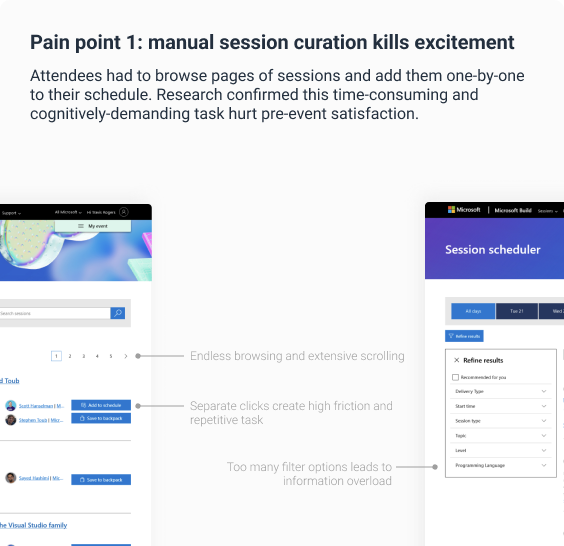
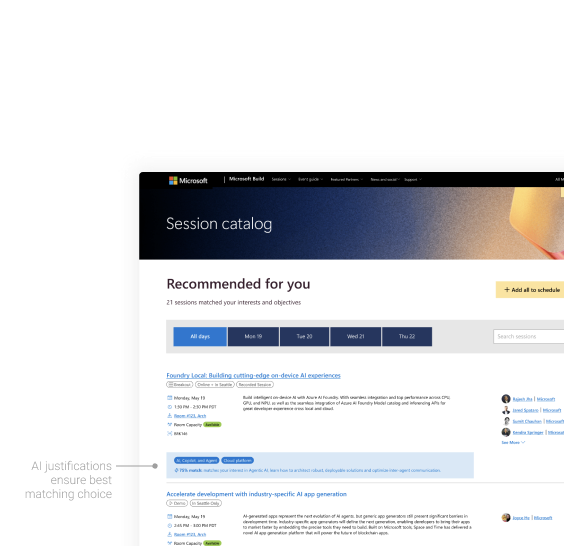
Rebuild MS AI Assistant case study to match Figma pixel-for-pixel
Reconstructs the overview bento grid, problem funnel/sankey chart, and
decision-card image+overlay layout to match the Figma file exactly
(colors, proportions, annotated screenshots), replaces a mismatched
decision2 image asset, and adds responsive fallbacks (stacked bento,
simple stat row instead of the funnel chart) below 900px.

diff --git a/components/work/MicrosoftEventsAIAssistant.tsx b/components/work/MicrosoftEventsAIAssistant.tsx
@@ -10,6 +10,7 @@ import {
 
 const GOLD = '#fb0';
 const INK = '#232f3e';
+const IMG_BASE = '/images/case-studies/ms-ai-assistant';
 
 const heading: React.CSSProperties = {
   fontFamily: 'var(--font-roboto), sans-serif',
@@ -35,22 +36,23 @@ function StatCard({ value, label }: { value: string; label: string }) {
   );
 }
 
-function ComparisonCardView({ card, kind }: { card: ComparisonCard; kind: 'problem' | 'solution' }) {
+function FlowStat({ value, label, style }: { value: string; label: string; style: React.CSSProperties }) {
   return (
-    <div style={{ flex: '1 1 380px', background: '#fbfbfb', border: '1px solid #ccc', borderRadius: 10, overflow: 'hidden', minWidth: 300 }}>
-      <div style={{ padding: 24, display: 'flex', flexDirection: 'column', gap: 10 }}>
-        <span style={{ ...body, fontSize: 13, fontWeight: 700, color: kind === 'solution' ? GOLD : '#b04b3f', textTransform: 'uppercase', letterSpacing: '0.06em' }}>
-          {card.tag}
-        </span>
-        <h4 style={{ ...heading, fontSize: 20 }}>{card.title}</h4>
-        <p style={{ ...body, fontSize: 15 }}>{card.body}</p>
+    <div style={{ position: 'absolute', background: '#fffcf2', border: `1px solid ${GOLD}`, borderRadius: 10, padding: '14px 18px', boxShadow: '4px 4px 5px rgba(209,155,8,0.1)', display: 'flex', gap: 10, alignItems: 'flex-start', ...style }}>
+      <span style={{ ...heading, fontSize: 'clamp(18px, 2.2vw, 32px)', color: GOLD, whiteSpace: 'nowrap' }}>{value}</span>
+      <span style={{ ...body, fontSize: 'clamp(10px, 1.1vw, 16px)', color: '#000', maxWidth: 140 }}>{label}</span>
+    </div>
+  );
+}
+
+function DecisionCardView({ card, kind }: { card: ComparisonCard; kind: 'problem' | 'solution' }) {
+  return (
+    <div style={{ flex: '1 1 400px', minWidth: 280, position: 'relative', background: '#fbfbfb', borderRadius: 10, overflow: 'hidden', aspectRatio: '564 / 546' }}>
+      <Image src={card.image} alt="" fill style={{ objectFit: 'cover' }} sizes="(max-width: 900px) 100vw, 564px" />
+      <div style={{ position: 'absolute', top: 0, left: 0, right: 0, padding: '5.5% 5.3% 0', display: 'flex', flexDirection: 'column', gap: 12 }}>
+        <h4 style={{ ...heading, fontSize: 20 }}>{kind === 'problem' ? card.tag : card.title}</h4>
+        <p style={{ ...body, fontSize: 16 }}>{card.body}</p>
       </div>
-      <div style={{ position: 'relative', aspectRatio: '564 / 235', width: '100%' }}>
-        <Image src={card.image} alt="" fill style={{ objectFit: 'cover' }} sizes="(max-width: 800px) 100vw, 564px" />
-      </div>
-      {card.caption && (
-        <p style={{ ...body, fontSize: 12, color: '#9f9f9f', padding: '10px 24px 18px', fontStyle: 'italic' }}>{card.caption}</p>
-      )}
     </div>
   );
 }
@@ -64,60 +66,75 @@ export default function MicrosoftEventsAIAssistant() {
       <section style={{ maxWidth: 1240, margin: '0 auto', padding: '120px 24px 40px' }}>
         <h1 style={{ ...heading, fontSize: 40, color: GOLD, whiteSpace: 'pre-line', marginBottom: 24 }}>{HERO.title}</h1>
         <div style={{ position: 'relative', width: '100%', aspectRatio: '1377 / 622', borderRadius: 24, overflow: 'hidden' }}>
-          <Image src="/images/case-studies/ms-ai-assistant/hero-collage.png" alt="Microsoft Events AI Assistant collage" fill style={{ objectFit: 'cover' }} sizes="100vw" priority />
+          <Image src={`${IMG_BASE}/hero-collage.png`} alt="Microsoft Events AI Assistant collage" fill style={{ objectFit: 'cover' }} sizes="100vw" priority />
         </div>
         <p style={{ ...body, fontSize: 16, textAlign: 'center', maxWidth: 615, margin: '32px auto 0' }}>
           <strong>Disclaimer</strong>
           <br />
-          <span style={{ fontWeight: 200 }}>{HERO.disclaimer}</span>
+          <span style={{ fontWeight: 300 }}>{HERO.disclaimer}</span>
         </p>
       </section>
 
-      {/* Overview */}
+      {/* Overview bento */}
       <section style={{ maxWidth: 1240, margin: '40px auto 0', padding: '0 24px' }}>
-        <div className="ms-overview-grid" style={{ display: 'grid', gridTemplateColumns: '1fr 1.5fr 1fr', gap: 16 }}>
-          <div style={{ display: 'flex', flexDirection: 'column', gap: 16 }}>
-            <div style={{ background: 'linear-gradient(180deg, #8dd8f5 0%, #d4f26e 100%)', borderRadius: 20, padding: 24, flex: 1, display: 'flex', flexDirection: 'column', gap: 8 }}>
-              <span style={{ ...body, fontWeight: 200, fontSize: 20, color: INK }}>Challenge</span>
-              <span style={{ ...body, fontWeight: 500, fontSize: 24, color: INK }}>{OVERVIEW.challenge}</span>
+        <div className="ms-bento" style={{ display: 'flex', gap: 16, alignItems: 'flex-start' }}>
+          {/* Left: Challenge + Solution */}
+          <div style={{ flex: '321 1 0', minWidth: 0, display: 'flex', flexDirection: 'column', justifyContent: 'space-between', gap: 24, background: 'linear-gradient(180deg, #88d8fa 0%, #d2f066 100%)', borderRadius: 10, padding: 24, color: '#fff' }}>
+            <div style={{ display: 'flex', flexDirection: 'column', gap: 8 }}>
+              <span style={{ ...body, fontWeight: 300, fontSize: 20, color: '#fff' }}>Challenge</span>
+              <span style={{ ...body, fontWeight: 500, fontSize: 24, color: '#fff' }}>{OVERVIEW.challenge}</span>
             </div>
-            <div style={{ background: '#c1f5d0', borderRadius: 20, padding: 24, display: 'flex', flexDirection: 'column', gap: 8 }}>
-              <span style={{ ...body, fontWeight: 200, fontSize: 20, color: INK }}>Solution</span>
-              <span style={{ ...body, fontWeight: 500, fontSize: 24, color: INK }}>{OVERVIEW.solution}</span>
+            <div style={{ display: 'flex', flexDirection: 'column', gap: 8 }}>
+              <span style={{ ...body, fontWeight: 300, fontSize: 20, color: '#fff' }}>Solution</span>
+              <span style={{ ...body, fontWeight: 500, fontSize: 24, color: '#fff' }}>{OVERVIEW.solution}</span>
             </div>
           </div>
 
-          <div style={{ display: 'flex', flexDirection: 'column', gap: 16 }}>
-            <div style={{ background: '#eafce0', borderRadius: 20, padding: 24 }}>
-              <span style={{ ...body, fontWeight: 200, fontSize: 20, color: '#219b24', display: 'block' }}>Role</span>
+          {/* Middle: Role / Deliverable / Team */}
+          <div style={{ flex: '476 1 0', minWidth: 0, display: 'flex', flexDirection: 'column', gap: 16 }}>
+            <div style={{ background: '#b9fac9', borderRadius: 10, padding: 24 }}>
+              <span style={{ ...body, fontWeight: 300, fontSize: 20, color: '#219b24', display: 'block', marginBottom: 8 }}>Role</span>
               <span style={{ ...body, fontWeight: 500, fontSize: 20, color: '#219b24' }}>{OVERVIEW.role}</span>
             </div>
-            <div style={{ background: '#8dd8f5', borderRadius: 20, padding: 24 }}>
-              <span style={{ ...body, fontWeight: 200, fontSize: 20, color: INK, display: 'block', marginBottom: 8 }}>Deliverable</span>
-              <ul style={{ ...body, fontWeight: 500, fontSize: 16, color: INK, margin: 0, paddingLeft: 20 }}>
+            <div style={{ background: '#88d8fa', borderRadius: 10, padding: 24 }}>
+              <span style={{ ...body, fontWeight: 300, fontSize: 20, color: '#fff', display: 'block', marginBottom: 8 }}>Deliverable</span>
+              <ul style={{ ...body, fontWeight: 500, fontSize: 16, color: '#fff', margin: 0, paddingLeft: 20 }}>
                 {OVERVIEW.deliverables.map((d) => <li key={d}>{d}</li>)}
               </ul>
             </div>
-            <div style={{ background: '#fdfd8f', borderRadius: 20, padding: 24 }}>
-              <span style={{ ...body, fontWeight: 200, fontSize: 20, color: INK, display: 'block', marginBottom: 8 }}>Team</span>
-              <ul style={{ ...body, fontWeight: 500, fontSize: 16, color: INK, margin: 0, paddingLeft: 20 }}>
+            <div style={{ background: '#89ea8b', borderRadius: 10, padding: 24 }}>
+              <span style={{ ...body, fontWeight: 300, fontSize: 20, color: '#fff', display: 'block', marginBottom: 8 }}>Team</span>
+              <ul style={{ ...body, fontWeight: 500, fontSize: 16, color: '#fff', margin: 0, paddingLeft: 20 }}>
                 {OVERVIEW.team.map((t) => <li key={t}>{t}</li>)}
               </ul>
             </div>
           </div>
 
-          <div style={{ display: 'flex', flexDirection: 'column', gap: 16 }}>
-            <div style={{ background: '#e6fced', borderRadius: 20, padding: 24, flex: 1 }}>
-              <div style={{ ...heading, fontSize: 40, fontWeight: 600, color: INK }}>{OVERVIEW.quickStats[0].value}</div>
-              <div style={{ ...body, fontSize: 20, fontWeight: 500, color: INK }}>{OVERVIEW.quickStats[0].label}</div>
+          {/* Right: compound quick-stats */}
+          <div style={{ flex: '327 1 0', minWidth: 0, display: 'flex', flexDirection: 'column', gap: 15 }}>
+            <div style={{ position: 'relative', borderRadius: 10, overflow: 'hidden', background: '#ffff8c', aspectRatio: '327 / 343' }}>
+              <div style={{ position: 'absolute', top: 0, left: 0, right: 0, height: '44.02%', background: '#d7d72d', padding: '6.7% 7.3% 0', boxSizing: 'border-box' }}>
+                <div style={{ ...heading, fontSize: 'clamp(24px, 3vw, 40px)', fontWeight: 700, color: '#fff' }}>{OVERVIEW.quickStats[0].value}</div>
+                <div style={{ ...body, fontSize: 'clamp(14px, 1.5vw, 20px)', fontWeight: 500, color: '#fff' }}>{OVERVIEW.quickStats[0].label}</div>
+              </div>
+              <div style={{ position: 'absolute', top: '44.02%', left: 0, right: 0, height: '31.78%', background: '#ecec54', padding: '6% 7.3% 0', boxSizing: 'border-box' }}>
+                <div style={{ ...heading, fontSize: 'clamp(20px, 2.4vw, 32px)', fontWeight: 700, color: '#a3b409' }}>{OVERVIEW.quickStats[2].value}</div>
+                <div style={{ ...body, fontSize: 'clamp(14px, 1.5vw, 20px)', fontWeight: 500, color: '#a3b409' }}>{OVERVIEW.quickStats[2].label}</div>
+              </div>
+              <div style={{ position: 'absolute', bottom: 0, left: 0, right: 0, height: '23.96%', padding: '7% 7.3% 0', boxSizing: 'border-box' }}>
+                <div style={{ ...heading, fontSize: 'clamp(20px, 2.4vw, 32px)', fontWeight: 700, color: '#cadf08' }}>{OVERVIEW.quickStats[1].value}</div>
+                <div style={{ ...body, fontSize: 'clamp(14px, 1.5vw, 20px)', fontWeight: 500, color: '#cadf08' }}>{OVERVIEW.quickStats[1].label}</div>
+              </div>
             </div>
-            <div style={{ background: INK, borderRadius: 20, padding: 20, display: 'flex', flexDirection: 'column', gap: 14 }}>
-              {OVERVIEW.quickStats.slice(1).map((s, i) => (
-                <div key={s.label}>
-                  <div style={{ ...heading, fontSize: 26, fontWeight: 600, color: i === 0 ? '#cadf08' : i === 1 ? '#a3b409' : '#fff' }}>{s.value}</div>
-                  <div style={{ ...body, fontSize: 15, fontWeight: 500, color: '#fff' }}>{s.label}</div>
-                </div>
-              ))}
+            <div style={{ position: 'relative', borderRadius: 10, overflow: 'hidden', background: '#eaffef', aspectRatio: '327 / 235', flex: 1 }}>
+              <div style={{ position: 'absolute', bottom: 0, left: '3.98%', width: '62.08%', height: '31.1%', background: '#61d0ff', borderRadius: '4px 4px 0 0', padding: '6% 0 0 5.4%', boxSizing: 'border-box' }}>
+                <div style={{ ...heading, fontSize: 'clamp(18px, 2vw, 32px)', fontWeight: 700, color: '#fff' }}>{OVERVIEW.quickStats[3].value}</div>
+                <div style={{ ...body, fontSize: 'clamp(12px, 1.3vw, 20px)', fontWeight: 500, color: '#fff' }}>{OVERVIEW.quickStats[3].label}</div>
+              </div>
+              <div style={{ position: 'absolute', bottom: 0, left: '50.46%', width: '49.54%', height: '88.09%', background: '#58a8f8', borderRadius: '4px 0 10px 0', padding: '4.3% 0 0 8.6%', boxSizing: 'border-box' }}>
+                <div style={{ ...heading, fontSize: 'clamp(18px, 2vw, 32px)', fontWeight: 700, color: '#fff' }}>{OVERVIEW.quickStats[4].value}</div>
+                <div style={{ ...body, fontSize: 'clamp(12px, 1.3vw, 20px)', fontWeight: 500, color: '#fff' }}>{OVERVIEW.quickStats[4].label}</div>
+              </div>
             </div>
           </div>
         </div>
@@ -125,9 +142,53 @@ export default function MicrosoftEventsAIAssistant() {
 
       {/* Problem */}
       <section style={{ maxWidth: 1240, margin: '96px auto 0', padding: '0 24px', textAlign: 'center' }}>
-        <h2 style={{ ...heading, fontSize: 'clamp(28px, 4vw, 40px)', maxWidth: 900, margin: '0 auto' }}>{PROBLEM.title}</h2>
-        <p style={{ ...body, fontSize: 20, maxWidth: 1000, margin: '24px auto 0' }}>{PROBLEM.body}</p>
-        <div style={{ display: 'flex', flexWrap: 'wrap', justifyContent: 'center', gap: 20, marginTop: 48 }}>
+        <h2 style={{ ...heading, fontSize: 'clamp(28px, 4vw, 40px)', maxWidth: 960, margin: '0 auto' }}>{PROBLEM.title}</h2>
+        <p style={{ ...body, fontSize: 20, maxWidth: 1172, margin: '24px auto 0' }}>{PROBLEM.body}</p>
+      </section>
+
+      {/* Problem funnel chart (desktop) */}
+      <section className="ms-problem-chart" style={{ maxWidth: 1440, margin: '48px auto 0', padding: '0 24px' }}>
+        <div style={{ position: 'relative', width: '100%', aspectRatio: '1440 / 582.9371' }}>
+          <div style={{ position: 'absolute', left: '-24.51%', top: '0%', width: '41.6%', height: '99.35%' }}>
+            <Image src={`${IMG_BASE}/problem-flow-bg.svg`} alt="" fill style={{ objectFit: 'fill' }} />
+          </div>
+          <div style={{ position: 'absolute', left: '17.19%', top: '19.56%', width: '23.3%', height: '31.31%' }}>
+            <Image src={`${IMG_BASE}/problem-flow-2.svg`} alt="" fill style={{ objectFit: 'fill' }} />
+          </div>
+          <div style={{ position: 'absolute', left: '17.26%', top: '38.77%', width: '23.23%', height: '28.48%' }}>
+            <Image src={`${IMG_BASE}/problem-flow-4.svg`} alt="" fill style={{ objectFit: 'fill' }} />
+          </div>
+          <div style={{ position: 'absolute', left: '17.36%', top: '57.98%', width: '23.13%', height: '42.02%' }}>
+            <Image src={`${IMG_BASE}/problem-flow-1.svg`} alt="" fill style={{ objectFit: 'fill' }} />
+          </div>
+          <div style={{ position: 'absolute', left: '39.69%', top: '28.65%', width: '22.47%', height: '34.31%' }}>
+            <Image src={`${IMG_BASE}/problem-flow-3.svg`} alt="" fill style={{ objectFit: 'fill' }} />
+          </div>
+          <div style={{ position: 'absolute', left: '63.61%', top: '28.22%', width: '16.77%', height: '4.03%' }}>
+            <Image src={`${IMG_BASE}/problem-flow-line-1.svg`} alt="" fill style={{ objectFit: 'fill' }} />
+          </div>
+          <div style={{ position: 'absolute', left: '63.61%', top: '32.34%', width: '16.88%', height: '1.97%' }}>
+            <Image src={`${IMG_BASE}/problem-flow-line-2.svg`} alt="" fill style={{ objectFit: 'fill' }} />
+          </div>
+
+          <div style={{ position: 'absolute', left: '15.35%', top: '30.88%', width: '2.22%', height: '68.63%', background: '#fff1cc', borderRadius: 6 }} />
+          <div style={{ position: 'absolute', left: '61.39%', top: '21.96%', width: '2.22%', height: '5.32%', background: '#eee', borderRadius: 6 }} />
+          <div style={{ position: 'absolute', left: '61.39%', top: '28.65%', width: '2.22%', height: '34.31%', background: '#fff1cc', borderRadius: 6 }} />
+          <div style={{ position: 'absolute', left: '80.07%', top: '28.14%', width: '2.22%', height: '3.43%', background: '#fff1cc', borderRadius: 6 }} />
+          <div style={{ position: 'absolute', left: '80.07%', top: '32.25%', width: '2.22%', height: '2.06%', background: '#fff1cc', borderRadius: 6 }} />
+          <div style={{ position: 'absolute', left: '80.07%', top: '35%', width: '2.22%', height: '29.34%', background: '#eee', borderRadius: 6 }} />
+
+          <FlowStat value="255k" label="# of registered attendees" style={{ left: '16.46%', top: '73.07%' }} />
+          <FlowStat value="50k" label="# of chatbot users" style={{ left: '39.38%', top: '51.47%' }} />
+          <FlowStat value="81k" label="# of questions answered" style={{ left: '62.5%', top: '45.82%' }} />
+          <FlowStat value="2.6k" label="Answers liked" style={{ left: '81.6%', top: '16.81%' }} />
+          <FlowStat value="1.4k" label="Answers disliked" style={{ left: '81.6%', top: '32.77%' }} />
+        </div>
+      </section>
+
+      {/* Problem stats (mobile fallback) */}
+      <section className="ms-problem-simple" style={{ maxWidth: 1240, margin: '48px auto 0', padding: '0 24px' }}>
+        <div style={{ display: 'flex', flexWrap: 'wrap', justifyContent: 'center', gap: 20 }}>
           {PROBLEM.stats.map((s) => <StatCard key={s.label} value={s.value} label={s.label} />)}
         </div>
       </section>
@@ -176,8 +237,8 @@ export default function MicrosoftEventsAIAssistant() {
           </div>
           {decision.pairs.map((pair, i) => (
             <div key={i} style={{ display: 'flex', flexWrap: 'wrap', gap: 20, marginBottom: 24, border: '1px solid #ccc', borderRadius: 10, padding: 20 }}>
-              <ComparisonCardView card={pair.problem} kind="problem" />
-              <ComparisonCardView card={pair.solution} kind="solution" />
+              <DecisionCardView card={pair.problem} kind="problem" />
+              <DecisionCardView card={pair.solution} kind="solution" />
             </div>
           ))}
         </section>
@@ -192,11 +253,11 @@ export default function MicrosoftEventsAIAssistant() {
       {/* Usability stats */}
       <section style={{ maxWidth: 1240, margin: '64px auto 0', padding: '0 24px' }}>
         <h3 style={{ ...heading, fontSize: 20 }}>{USABILITY_STATS.kicker}</h3>
-        <div style={{ display: 'flex', flexWrap: 'wrap', gap: 17, marginTop: 24 }}>
+        <div className="ms-stats-row" style={{ display: 'flex', flexWrap: 'wrap', gap: 17, marginTop: 24 }}>
           {USABILITY_STATS.stats.map((s) => (
-            <div key={s.label} style={{ background: '#fffcf2', border: `1px solid ${GOLD}`, borderRadius: 10, padding: 20, width: 240, minHeight: 240, display: 'flex', flexDirection: 'column', alignItems: 'center', justifyContent: 'center', textAlign: 'center', gap: 8 }}>
+            <div key={s.label} style={{ background: '#fffcf2', border: `1px solid ${GOLD}`, borderRadius: 10, padding: 20, width: 280, height: 280, display: 'flex', flexDirection: 'column', alignItems: 'center', justifyContent: 'center', textAlign: 'center', gap: 8 }}>
               <span style={{ ...heading, fontSize: 60 }}>{s.value}</span>
-              <span style={{ ...body, fontSize: 15 }}>{s.label}</span>
+              <span style={{ ...body, fontSize: 20 }}>{s.label}</span>
             </div>
           ))}
         </div>
@@ -204,31 +265,20 @@ export default function MicrosoftEventsAIAssistant() {
 
       {/* Impact stats */}
       <section style={{ maxWidth: 1240, margin: '64px auto 0', padding: '0 24px 96px' }}>
-        <div className="ms-impact-grid" style={{ display: 'grid', gridTemplateColumns: '1fr 1fr', gap: 24 }}>
-          <div>
-            <h4 style={{ ...heading, fontSize: 20, marginBottom: 16 }}>For attendees:</h4>
-            <div style={{ display: 'flex', flexWrap: 'wrap', gap: 16 }}>
-              {IMPACT_STATS.attendees.map((s) => (
-                <div key={s.label} style={{ background: GOLD, borderRadius: 10, padding: 20, flex: '1 1 200px', minWidth: 180, color: '#fff', textAlign: 'center' }}>
-                  <div style={{ ...heading, fontSize: 44, color: '#fff' }}>{s.value}</div>
-                  <div style={{ ...body, fontSize: 18, fontWeight: 700, color: '#fff' }}>{s.label}</div>
-                  <div style={{ ...body, fontSize: 14, color: '#fff3d6', marginTop: 8 }}>{s.caption}</div>
-                </div>
-              ))}
+        <div className="ms-impact-headers" style={{ display: 'flex', gap: 17, marginBottom: 8 }}>
+          <h4 style={{ ...heading, fontSize: 20, flex: '1 1 577px' }}>For attendees:</h4>
+          <h4 style={{ ...heading, fontSize: 20, flex: '1 1 577px' }}>For business:</h4>
+        </div>
+        <div className="ms-stats-row" style={{ display: 'flex', flexWrap: 'wrap', gap: 17 }}>
+          {[...IMPACT_STATS.attendees, ...IMPACT_STATS.business].map((s) => (
+            <div key={s.label} style={{ background: GOLD, borderRadius: 10, padding: 20, width: 280, height: 280, display: 'flex', flexDirection: 'column', alignItems: 'center', justifyContent: 'center', textAlign: 'center', gap: 16 }}>
+              <div>
+                <div style={{ ...heading, fontSize: 60, color: '#fff' }}>{s.value}</div>
+                <div style={{ ...body, fontSize: 20, fontWeight: 700, color: '#fff' }}>{s.label}</div>
+              </div>
+              <div style={{ ...body, fontSize: 16, color: '#fff3d6' }}>{s.caption}</div>
             </div>
-          </div>
-          <div>
-            <h4 style={{ ...heading, fontSize: 20, marginBottom: 16 }}>For business:</h4>
-            <div style={{ display: 'flex', flexWrap: 'wrap', gap: 16 }}>
-              {IMPACT_STATS.business.map((s) => (
-                <div key={s.label} style={{ background: GOLD, borderRadius: 10, padding: 20, flex: '1 1 200px', minWidth: 180, color: '#fff', textAlign: 'center' }}>
-                  <div style={{ ...heading, fontSize: 44, color: '#fff' }}>{s.value}</div>
-                  <div style={{ ...body, fontSize: 18, fontWeight: 700, color: '#fff' }}>{s.label}</div>
-                  <div style={{ ...body, fontSize: 14, color: '#fff3d6', marginTop: 8 }}>{s.caption}</div>
-                </div>
-              ))}
-            </div>
-          </div>
+          ))}
         </div>
       </section>
 
@@ -236,8 +286,13 @@ export default function MicrosoftEventsAIAssistant() {
 
       <style jsx>{`
         @media (max-width: 900px) {
-          .ms-overview-grid { grid-template-columns: 1fr !important; }
-          .ms-impact-grid { grid-template-columns: 1fr !important; }
+          .ms-bento { flex-direction: column; }
+          .ms-problem-chart { display: none; }
+          .ms-impact-headers { flex-direction: column; gap: 0; }
+          .ms-stats-row { justify-content: center; }
+        }
+        @media (min-width: 901px) {
+          .ms-problem-simple { display: none; }
         }
       `}</style>
     </div>

diff --git a/lib/caseStudies/msAiAssistant.ts b/lib/caseStudies/msAiAssistant.ts
@@ -70,7 +70,6 @@ export interface ComparisonCard {
   title: string;
   body: string;
   image: string;
-  caption?: string;
 }
 
 export interface Decision {
@@ -90,14 +89,12 @@ export const DECISIONS: Decision[] = [
           title: 'The AI Assistant’s main entry point is easy to miss',
           body: 'The AI Assistant’s main entry point “Customize your schedule” has low adoption. Only 19% of attendees used it, and over half said they didn’t even know it existed. Heat map confirmed AI Assistant is one of the least popular click on the home page.',
           image: '/images/case-studies/ms-ai-assistant/decision1-pair1-problem.png',
-          caption: 'CTA is overshadowed by more visually dominant content',
         },
         solution: {
           tag: 'Solution 1',
           title: 'Solution 1: design hierarchy to elevate the AI Assistant as a primary action',
           body: 'I made the entry point feel like a key part of the planning journey. Early usability tests showed increased click-throughs and reduced hesitation time to engage with the AI Assistant.',
           image: '/images/case-studies/ms-ai-assistant/decision1-pair1-solution.png',
-          caption: 'Simple yet persistent CTA that’s visually distinct',
         },
       },
       {
@@ -106,14 +103,12 @@ export const DECISIONS: Decision[] = [
           title: 'The chatbot has no clear value proposition',
           body: 'The chatbot has no clear messaging about what it could do or how it would save time. The AI Assistant never earned their buy-in.',
           image: '/images/case-studies/ms-ai-assistant/decision1-pair2-problem.png',
-          caption: 'The chatbot’s capabilities are unclear, leaving attendees unsure of the next step.',
         },
         solution: {
           tag: 'Solution 2',
           title: 'Solution 2: use persuasive prompts to give attendees a reason to care',
           body: 'The chatbot now surfaces relevant prompts to give attendees a clear starting point. This gave attendees a clear reason to engage and helped them see real value quickly.',
           image: '/images/case-studies/ms-ai-assistant/decision1-pair2-solution.png',
-          caption: 'Clear prompts for solving valuable problems',
         },
       },
     ],
@@ -128,14 +123,12 @@ export const DECISIONS: Decision[] = [
           title: 'Building a schedule was time-consuming and cognitively demanding',
           body: 'Attendees had to browse pages of sessions and add them one-by-one to their schedule. Research confirmed this time-consuming and cognitively-demanding task hurt pre-event satisfaction.',
           image: '/images/case-studies/ms-ai-assistant/decision2-pair1-problem.png',
-          caption: 'Endless browsing and extensive scrolling · Separate clicks create high friction and repetitive task',
         },
         solution: {
           tag: 'Solution 1',
           title: 'Solution 1: automating planning to reduce friction',
           body: 'A full-page AI flow that generates a personalized schedule based on attendee profile. Attendees can review, swap, or add all sessions at once—turning a stressful process into a confident, guided experience.',
           image: '/images/case-studies/ms-ai-assistant/decision2-pair1-solution.png',
-          caption: 'AI justifications ensure best matching choice',
         },
       },
       {
@@ -144,14 +137,12 @@ export const DECISIONS: Decision[] = [
           title: 'Overlapping sessions made planning stressful',
           body: 'Overlapping sessions made planning stressful, and without AI support, resolving conflicts was error-prone. Attendees lacked confidence they picked the right sessions for their specific level, background, or needs.',
           image: '/images/case-studies/ms-ai-assistant/decision2-pair2-problem.png',
-          caption: 'Lacking clear guidance or actionable solutions to decide “which one is better?” or “what should I do?”',
         },
         solution: {
           tag: 'Solution 2',
           title: 'Solution 2: smart conflict resolution that builds confidence',
           body: 'The AI Assistant now recommends the best-fit options with clearing reasoning based on input. Attendees feel confident in their choices and can build a strong schedule in minutes, not hours.',
           image: '/images/case-studies/ms-ai-assistant/decision2-pair2-solution.png',
-          caption: 'Session comparison to simplify decision',
         },
       },
     ],
@@ -166,14 +157,12 @@ export const DECISIONS: Decision[] = [
           title: 'Attendees don’t know who to talk to',
           body: 'Attendees don’t know who to talk to. The current directory provides surface-level info offers no meaningful way to identify relevant people, people are left guessing who’s worth reaching out to.',
           image: '/images/case-studies/ms-ai-assistant/decision3-pair1-problem.png',
-          caption: 'Networking felt random, high-effort, and often unproductive. Hard to identify who’s like-minded or where to start.',
         },
         solution: {
           tag: 'Solution 1',
           title: 'Solution 1: help attendees find “their people”',
           body: 'AI Assistant makes networking no longer a guesswork by surfacing relevant contacts based on shared sessions and background.',
           image: '/images/case-studies/ms-ai-assistant/decision3-pair1-solution.png',
-          caption: 'Tags and shared sessions help quickly assess background fit.',
         },
       },
       {
@@ -182,14 +171,12 @@ export const DECISIONS: Decision[] = [
           title: 'Cold outreach creates a barrier for introverts',
           body: 'The current CTAs to connect require attendees to initiate cold outreach, which majority won’t do. This creates a barrier for introverts and first-timers, who want connection but need help breaking the ice.',
           image: '/images/case-studies/ms-ai-assistant/decision3-pair2-problem.png',
-          caption: 'Lacking visibility into availability or responsiveness · No facilitation to avoid awkward cold start',
         },
         solution: {
           tag: 'Solution 2',
           title: 'Solution 2: facilitate low-pressure networking',
           body: 'Designed structured prompts, conversation starters, or shared group chats based on session attendance or topics of interest. Using real-time context to identify who’s actively open to networking.',
           image: '/images/case-studies/ms-ai-assistant/decision3-pair2-solution.png',
-          caption: 'Improved nudges drove more reach outs.',
         },
       },
     ],
